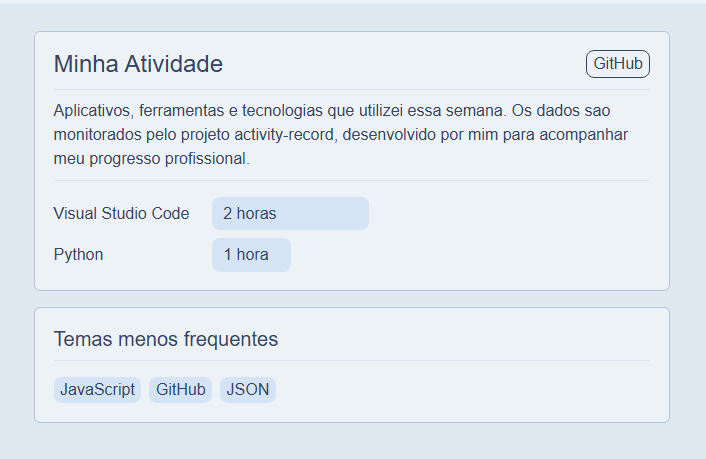
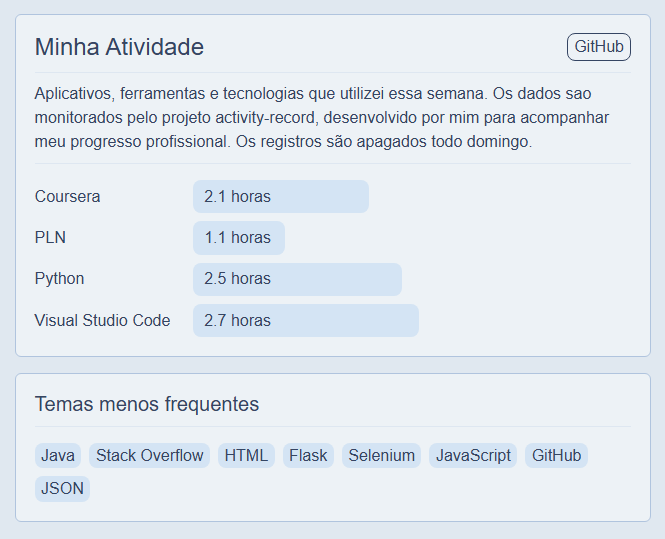
readme

Changed region(s): [[0.0301, 0.3355, 0.9624, 0.7625], [0.0301, 0.061, 0.9624, 0.305], [0.0301, 0.8235, 0.9023, 0.9455]]

diff --git a/recordFocused.py b/recordFocused.py
@@ -17,13 +17,13 @@ tags = [
     # if the tag is an array[2], the first index is the word to be matched 
     # and the second is the one to be shown
     "Python", ["py", "Python"], "Java", "Selenium", "JavaScript", ["js", "JavaScript"], 
-    "Flutter", "Bootstrap", "Spring", ["nlp", "PLN"], "Flask",
-    "PLN", "HTML", "CSS", "Git", "Django",
-    "GitHub", "React", "Angular", "Linkedin", "JSON", ["ts", "TypeScript"], "Coursera", "Flask"
+    "Flutter", "Bootstrap", "Spring", ["nlp", "PLN"], "Flask", "PLN", "HTML", "CSS", "Git", "Django",
+    "GitHub", "React", "Angular", "Linkedin", "JSON", ["ts", "TypeScript"], "Coursera", "TypeScript",
+    "Dart"
 ]
 
 multiTags = [
-    "Visual Studio Code", "Stack Overflow", "Tensor Flow" 
+    "Visual Studio Code", "Stack Overflow", "Tensor Flow", "React Native" 
 ]
 
 def checkForIntelliJ():
@@ -48,7 +48,7 @@ def checkForTags(title):
         if mtag.lower() in title:
             matches.append(mtag)
 
-    title = re.split(r'[, .:]', title)
+    title = re.split(r'[, .:-]', title)
 
     for tag in tags:
         if type(tag) == str:

diff --git a/README.md b/README.md
@@ -1,9 +1,12 @@
 # Monitorador de atividade
 
-Script que verifica dados da janela em foco do windows extrair palavras-chave como nome de ferramentas, tecnologias, etc, e envia esses dados automaticamente atravez da api do GitHub, permitindo alimentar dados para paginas do GitHub Pages.
-Feito para expor o progresso do meu trabalho no meu site de portfolio: https://fe-fe.github.io/activity
+Feito para expor o progresso do meu trabalho no meu site de portfólio: https://fe-fe.github.io/activity.
 
-a busca e feita procurando por tags de uma ou varias palavras (ex. "Python" ou "Stack Overflow") dentro do titulo da pagina que esta atualmente em uso, e grava o periodo em que elas sao positivas para monitorar o tempo de trabalho. 
+Script que verifica dados da janela em foco do Windows para extrair palavras-chave, como nome de ferramentas, tecnologias, etc., salva o tempo dedicado ao tema e estrutura esses dados em JSON.
+
+Também permite que o JSON gerado seja convertido para uma variável JavaScript, para que os dados possam ser utilizados sem a necessidade de banco de dados ou aplicação backend (ex.: GitHub Pages).
+
+A busca é feita procurando por tags de uma ou várias palavras (ex.: "Python" ou "Stack Overflow") dentro do título da página que está atualmente em uso, sendo possível adicionar novas tags ao programa atravéz das variáveis "tags" e "multiTags".
 
 ---
 
